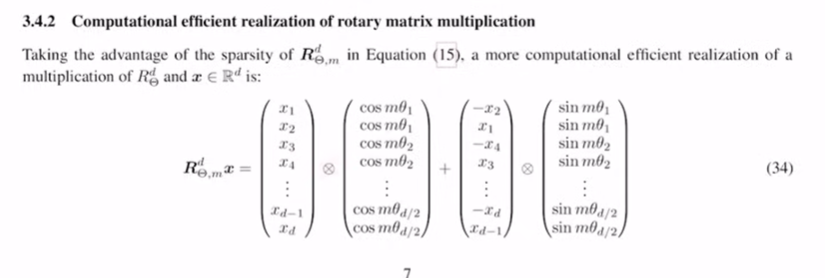
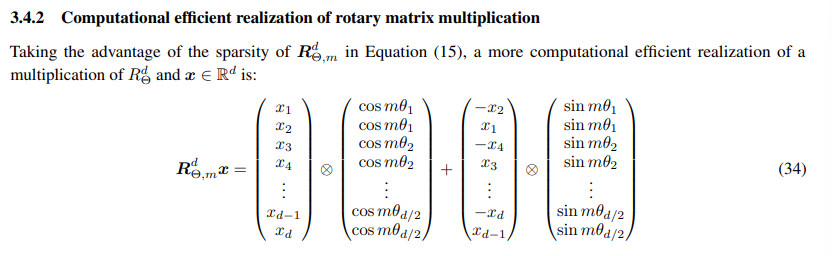
better rope images, infernce code start

diff --git a/src/rope.py b/src/rope.py
@@ -1,0 +1,90 @@
+import torch
+from torch import nn
+from typing import Optional, Tuple, List
+from torch.nn import CrossEntropyLoss
+import math
+from siglip import SiglipVisionConfig, SiglipVisionModel
+from configs import GemmaConfig, PaliGemmaConfig
+from kv_cache import KVCache
+
+
+class GemmaRotaryEmbedding(nn.Module):
+    def __init__(self, dim, max_position_embeddings = 2048, base=10000 ,device=None):
+                 
+        super().__init__()
+        # RoPE modify attention mechanism. Each head is independent and parallel. 
+        # RoPE is applied to each head so works with head dim.
+        self.dim = dim # set to the head_dim
+
+        # max number of positions we can encode
+        self.max_position_embeddings = max_position_embeddings
+        self.base = base
+
+        # calculate theta according to formula 
+        # theta_i = base ^(2i/dim) where i=0,1,2,..., dim//2
+
+        # self.inv_freq = 1.0 / (self.base ** (torch.arange(start=0, end=self.dim, step=2, dtype=torch.int64).float() / self.dim))
+        # NOTE: Implementation here is different from paper due to HF choice
+        # Original RoPE has pairs like t1, t1, t2, t2, ..., t_d/2, t_d/2
+        # HF does like t1, t2, ... t_d/2, t1, t2, ... t_d/2
+        # They had apparently already done some transform while concerting llama weights to hf
+        # So now they had to perform an additional step. Overall effect is the same   
+        self.inv_freq = self.base ** -(torch.arange(start=0, end=self.dim, step=2, dtype=torch.int64).float() / self.dim)
+        self.register_buffer(name="inv_freq", tensor=self.inv_freq, persistent=False)
+
+    @staticmethod
+    def _rotate_half(x):
+        # Assuming size 1024, we are making like
+        # [-513, -512, -511, ..., 0, 1, ..., 512]
+        # Different than what is given in the paper but HF's way
+
+        # Build the [-x2, x1, -x4, x3, ...] tensor for the sin part of the positional embedding
+        x1 = x[..., : x.shape[-1] // 2] # takes the first half of the last dimension
+        x2 = x[..., x.shape[-1] // 2 :] # takes the second half of the last dimension
+        return torch.cat((-x2, x1), dim = -1)
+    
+    @staticmethod
+    def apply_rotary_pos_embedding(q, k, cos, sin, unsqueeze_dim=1):
+        cos = cos.unsqueeze(unsqueeze_dim) # add head dim
+        sin = sin.unsqueeze(unsqueeze_dim) # add head dim
+
+        # Apply RoPE
+        q_embed = (q*cos) + (GemmaRotaryEmbedding._rotate_half(q) * sin)
+        k_embed = (k*cos) + (GemmaRotaryEmbedding._rotate_half(k) * sin)
+        
+        return q_embed, k_embed
+
+    @torch.no_grad()
+    def forward(self, x, position_ids, seq_len = None):
+        """Outputs will be the cos and sin vectors"""
+
+        # x: (Batch_Size, num_attention_heads, seq_len, head_size)
+        # TODO: position_ids: ()  
+        self.inv_freq.to(x.device)
+
+        # inv_freq_expanded: (Batch_Size, Head_Dim // 2, 1)
+        inv_freq_expanded = self.inv_freq[None, :, None].float().expand(position_ids.shape[0], -1, 1)
+
+        # position_ids_expanded: (Batch_Size, 1, seq_len)
+        position_ids_expanded = position_ids[:, None, :].float()
+
+        device_type = x.device.type
+        device_type = device_type if isinstance(device_type, str) and device_type != "mps" else "cpu"
+        
+        # mixed precision as a context manager, recommended for forward pass (not loss calculation though)
+        with torch.autocast(device_type=device_type, enabled=False):
+            
+            # Multiply each theta by the position (which is the argument of the sin and cos function)
+            # freqs: (Batch_Size, Head_Dim // 2, 1) @ (Batch_Size, 1, seq_len) -> (Batch_Size, Head_Dim // 2, seq_len) -> (Batch_Size, seq_len, Head_Dim // 2)
+            # freqs are the arguments of the cosines and sines i.e. m*theta
+            freqs = (inv_freq_expanded.float() @ position_ids_expanded.float()).transpose(1, 2)
+
+            # self.inv_freq was till dim/2 but we need dim number of freqs
+            # emb: (Batch_Size, seq_len, Head_Dim)
+            emb = torch.cat((freqs, freqs), dim = -1)
+
+            # (Batch_Size, seq_len, Head_Dim)
+            cos, sin = emb.cos(), emb.sin()
+
+        return cos.to(dtype=x.dtype), sin.to(dtype=x.dtype)
+

diff --git a/src/inference.py b/src/inference.py
@@ -1,0 +1,46 @@
+from PIL import Image
+import torch
+import fire
+
+from processing_paligemma import PaliGemmaProcessor
+from kv_cache import KVCache
+from gemma import PaliGemmaForConditionalGeneration
+from utils import load_hf_model
+
+
+def main(
+    model_path: str,
+    prompt: str,
+    image_file_path: str,
+    max_tokens_to_generate: int = 100,
+    temperature: float = 0.8,
+    top_p: float = 0.95,
+    do_sample: bool = False,
+    only_cpu: bool = False
+): 
+    device = "cpu"
+
+    if not only_cpu:
+        if torch.cuda.is_available():
+            device = "cuda" 
+        elif torch.backends.mps.is_available():
+            device = "mps"
+        
+    print(f'Device in use = {device}')
+
+    print(f'Loading model ...')
+
+    model, tokenizer = load_hf_model(model_path, device)
+    model = model.to(device).eval()
+
+    num_image_tokens = model.config.vision_config.num_image_tokens
+    image_size = model.config.vision_config.image_size
+
+    processor = PaliGemmaProcessor(tokenizer=tokenizer, num_image_tokens=num_image_tokens, image_size=image_size)
+
+
+    print(f'Running inference ...')
+
+    with torch.no_grad():
+        test_inference(model, processor, device, prompt, image_file_path, 
+                       max_tokens_to_generate, temperature, top_p, do_sample)

diff --git a/src/gemma_model.py b/src/gemma_model.py
@@ -6,6 +6,8 @@ import math
 from siglip import SiglipVisionConfig, SiglipVisionModel
 from configs import GemmaConfig, PaliGemmaConfig
 from kv_cache import KVCache
+from rope import GemmaRotaryEmbedding
+
 
 class GemmaForCausalLM(nn.Module):
     def __init__(self, config: PaliGemmaConfig):
@@ -121,7 +123,7 @@ class GemmaAttention(nn.Module):
         self.rotary_embeds = GemmaRotaryEmbedding(
             self.head_dim,
             max_position_embeddings = self.max_position_embeddings,
-            theta = self.rope_theta,
+            base = self.rope_theta,
         )
 
 
@@ -155,7 +157,7 @@ class GemmaAttention(nn.Module):
         cos, sin = self.rotary_embeds(value_states, position_ids, seq_len=None)
 
         # (Batch_Size, Num_Heads_Q, Seq_Len, Head_Dim), (Batch_Size, Num_Heads_KV, Seq_Len, Head_Dim)
-        query_states, key_states = apply_rotary_pos_embedding(query_states, key_states, cos, sin)
+        query_states, key_states = GemmaRotaryEmbedding.apply_rotary_pos_embedding(query_states, key_states, cos, sin)
 
         if kv_cache is not None:
             key_states, value_states = kv_cache.update(key_states=key_states, value_states=value_states, layer_idx=self.layer_idx)

diff --git a/README.md b/README.md
@@ -259,3 +259,6 @@ The efficient way suggested is -
 
 The paper also tells how with more relative distance, the association decreases. 
 ![alt text](readme-images/rope-decay.png)
+
+Visual representation of RoPE. Information is encoded in pairs. We multiply by $\theta$, but also include a factor of the position $m$  
+![alt text](readme-images/rope-viz.png)
